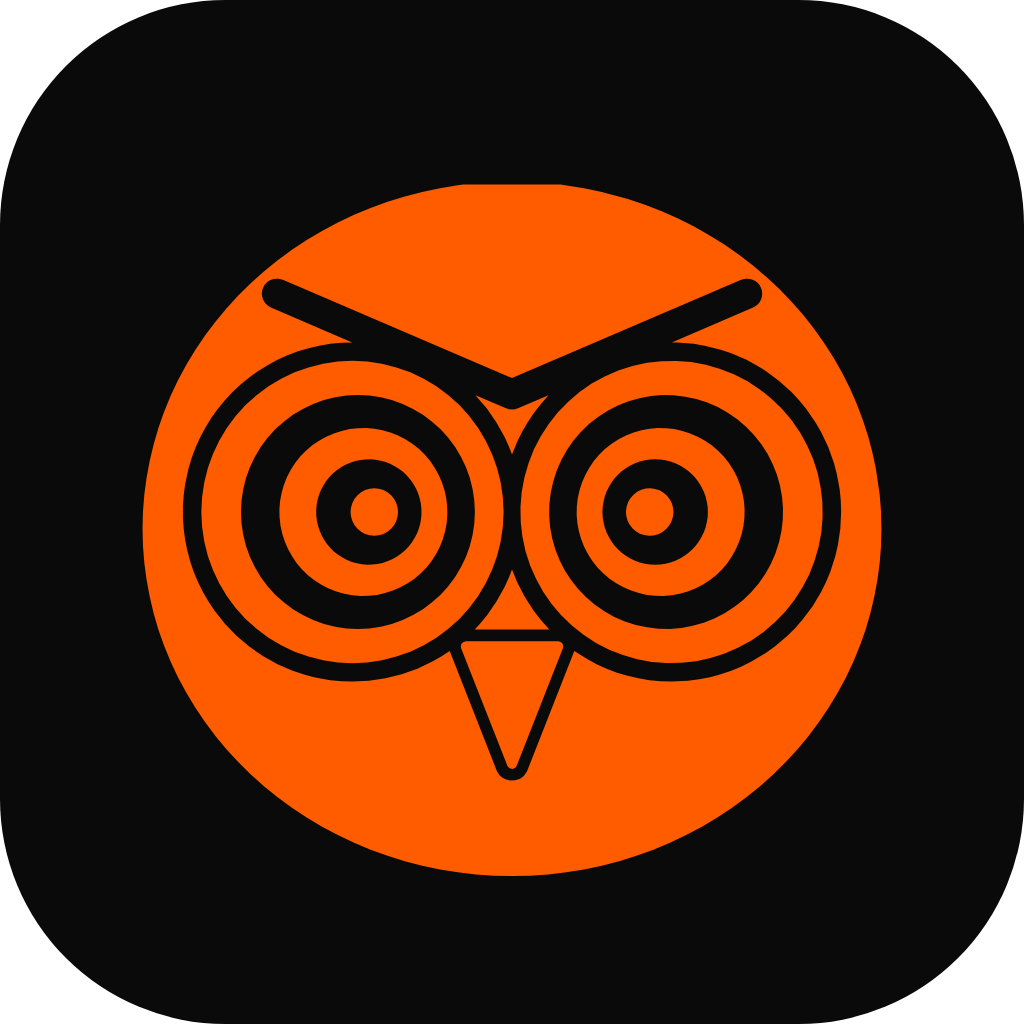
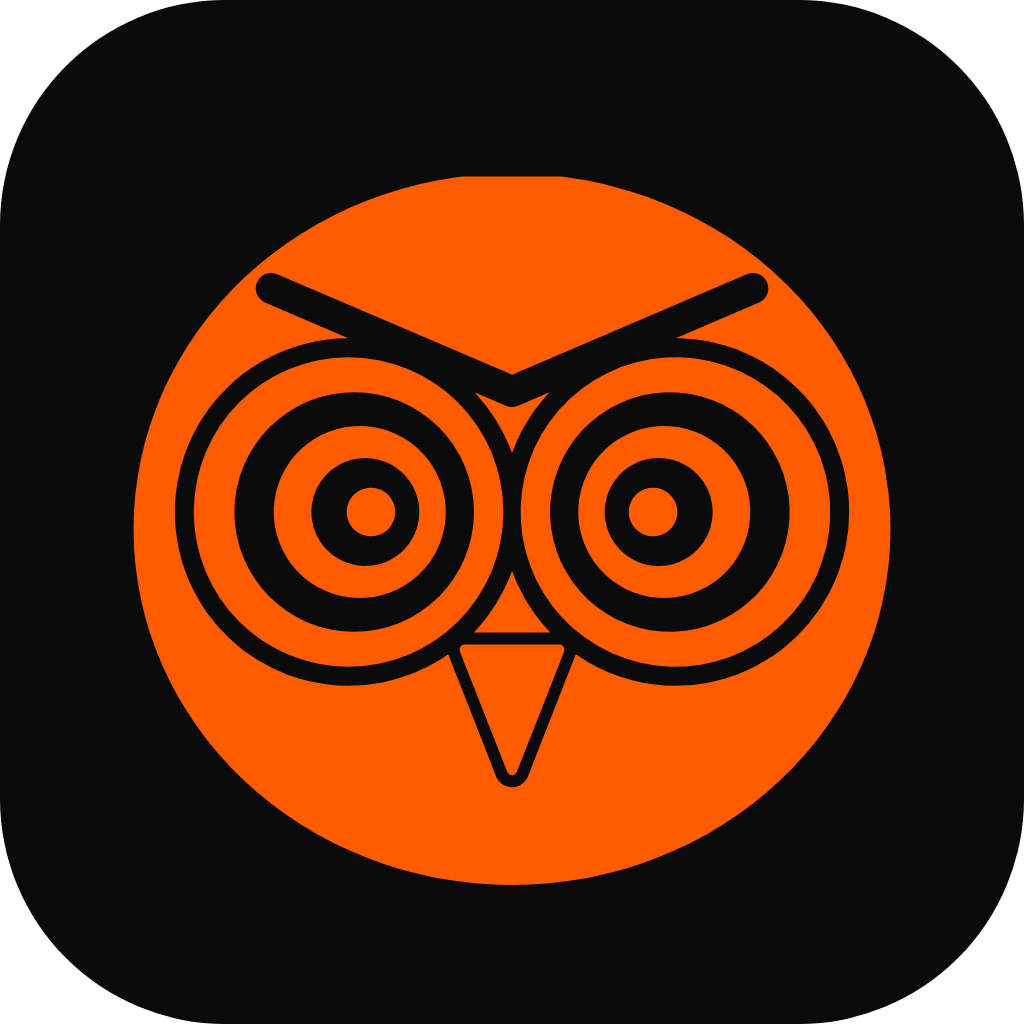
refactor(brand): the owl comes from @bitbaum/design-tokens/marks
Solon's mark now lives where the fleet's marks live (design-tokens 1.6.1,
`marks/solon.mjs`), the same data OrangeCat's tiles draw. mark.ts reads it
from the package, the icons and exports are written from it with the
package's own helpers (so Solon's icon has the fleet's proportions), and
brand/solon-mark.svg is gone. The test fails if an icon drifts from the
package or a drawing of its own reappears.

Claude-Session: https://claude.ai/code/session_019MDtmsX15QgjkDp9MQaQ92

diff --git a/src/lib/brand/mark.ts b/src/lib/brand/mark.ts
@@ -1,11 +1,23 @@
 /**
- * GENERATED from brand/solon-mark.svg by `pnpm run brand`. Do not edit:
- * change the drawing and run the script.
+ * Solon's mark — the owl — from @bitbaum/design-tokens/marks (installed here
+ * as @fleet/design-tokens), the one place the fleet's marks live. OrangeCat's
+ * tiles and Solon's own header, share card and icons draw the same data, so
+ * the owl is replaced once, in that package (`marks:import solon <file.svg>`),
+ * and a release carries it everywhere. See brand/README.md.
  */
+import { markFor } from "@fleet/design-tokens/marks";
 
+const mark = markFor("solon");
+if (!mark || mark.shapes.length !== 1 || mark.shapes[0]!.paint !== "fill") {
+  throw new Error("@fleet/design-tokens/marks: Solon's mark must be one filled shape");
+}
+const [shape] = mark.shapes;
+
+/** The whole mark as data: `mark` for the package's helpers, the path for React and satori. */
 export const SOLON_MARK = {
-  name: "Solon",
-  viewBox: [0, 0, 100, 100] as const,
-  fillRule: "evenodd" as "evenodd" | "nonzero",
-  d: "M93.35 44.93 L92.93 42.94 L92.41 40.97 L91.78 39.03 L91.05 37.11 L90.23 35.24 L89.30 33.40 L88.28 31.61 L87.17 29.87 L85.97 28.18 L84.69 26.55 L83.32 24.98 L81.87 23.48 L80.34 22.05 L78.74 20.68 L77.07 19.39 L75.34 18.18 L73.54 17.06 L71.69 16.01 L69.78 15.06 L67.83 14.19 L65.84 13.41 L63.80 12.73 L60.69 11.88 L58.58 11.43 L55.77 11.00 L44.23 11.00 L43.54 11.09 L41.42 11.43 L39.31 11.88 L37.23 12.42 L35.18 13.06 L33.16 13.79 L31.19 14.61 L29.26 15.52 L27.38 16.52 L25.55 17.61 L23.79 18.78 L22.09 20.03 L20.45 21.35 L18.89 22.75 L17.40 24.22 L15.99 25.76 L14.66 27.36 L13.42 29.02 L12.26 30.74 L11.20 32.50 L10.22 34.32 L9.35 36.17 L8.57 38.07 L7.89 39.99 L7.32 41.95 L6.85 43.93 L6.48 45.93 L6.21 47.95 L6.05 49.97 L6.00 52.00 L6.05 54.03 L6.21 56.05 L6.48 58.07 L6.85 60.07 L7.32 62.05 L7.89 64.01 L8.57 65.93 L9.35 67.83 L10.22 69.68 L11.20 71.50 L12.26 73.26 L13.42 74.98 L14.66 76.64 L15.99 78.24 L17.40 79.78 L18.89 81.25 L20.45 82.65 L22.09 83.97 L23.79 85.22 L25.55 86.39 L27.38 87.48 L29.26 88.48 L31.19 89.39 L33.16 90.21 L35.18 90.94 L37.23 91.58 L39.31 92.12 L41.42 92.57 L43.54 92.91 L45.69 93.16 L47.84 93.31 L50.00 93.36 L52.16 93.31 L54.31 93.16 L56.46 92.91 L58.58 92.57 L60.69 92.12 L62.77 91.58 L64.82 90.94 L66.84 90.21 L68.81 89.39 L70.74 88.48 L72.62 87.48 L74.45 86.39 L76.21 85.22 L77.91 83.97 L79.55 82.65 L81.11 81.25 L82.60 79.78 L84.01 78.24 L85.34 76.64 L86.58 74.98 L87.74 73.26 L88.80 71.50 L89.78 69.68 L90.65 67.83 L91.43 65.93 L92.11 64.01 L92.68 62.05 L93.15 60.07 L93.52 58.07 L93.79 56.05 L93.95 54.03 L94.00 52.00 L93.95 49.97 L93.79 47.95ZM69.66 29.81 L71.64 29.97 L72.94 30.19 L74.86 30.67 L76.12 31.09 L77.93 31.88 L79.10 32.51 L80.22 33.20 L81.81 34.39 L83.28 35.72 L84.19 36.68 L85.03 37.70 L86.15 39.33 L86.81 40.48 L87.66 42.27 L88.33 44.14 L88.67 45.41 L89.03 47.36 L89.16 48.68 L89.20 50.00 L89.10 51.98 L88.81 53.94 L88.51 55.23 L87.91 57.12 L87.40 58.34 L86.81 59.52 L85.80 61.22 L84.61 62.81 L83.74 63.81 L82.81 64.74 L81.30 66.03 L80.22 66.80 L78.52 67.81 L77.34 68.40 L76.12 68.91 L74.86 69.33 L73.59 69.67 L72.29 69.93 L70.98 70.10 L69.00 70.20 L67.68 70.16 L66.36 70.03 L65.06 69.81 L63.77 69.51 L62.51 69.13 L61.27 68.66 L60.07 68.12 L58.90 67.49 L57.42 66.55 L51.78 80.91 L51.43 81.40 L50.96 81.76 L50.40 81.96 L49.80 81.99 L49.22 81.84 L48.87 81.65 L48.57 81.40 L48.22 80.91 L42.58 66.55 L41.67 67.15 L40.52 67.81 L38.73 68.66 L36.86 69.33 L34.94 69.81 L32.98 70.10 L31.00 70.20 L29.68 70.16 L28.36 70.03 L26.41 69.67 L25.14 69.33 L23.88 68.91 L22.07 68.12 L20.33 67.15 L18.70 66.03 L17.19 64.74 L15.81 63.32 L14.58 61.77 L13.85 60.67 L13.19 59.52 L12.60 58.34 L12.09 57.12 L11.67 55.86 L11.33 54.59 L11.07 53.29 L10.90 51.98 L10.81 50.66 L10.81 49.34 L10.90 48.02 L11.07 46.71 L11.49 44.77 L11.87 43.51 L12.34 42.27 L12.88 41.07 L13.51 39.90 L14.20 38.78 L14.97 37.70 L15.81 36.68 L16.72 35.72 L17.68 34.81 L18.70 33.97 L19.78 33.20 L20.90 32.51 L22.07 31.88 L23.27 31.34 L24.51 30.87 L25.77 30.49 L27.06 30.19 L28.36 29.97 L29.68 29.84 L30.97 29.80 L21.29 25.65 L20.98 25.48 L20.59 25.12 L20.33 24.67 L20.21 24.15 L20.21 23.80 L20.28 23.46 L20.52 22.98 L20.88 22.59 L21.17 22.40 L21.50 22.27 L21.85 22.21 L22.20 22.21 L22.71 22.35 L50.00 34.04 L77.29 22.35 L77.80 22.21 L78.15 22.21 L78.50 22.27 L78.98 22.49 L79.26 22.71 L79.48 22.98 L79.65 23.29 L79.76 23.63 L79.80 23.98 L79.77 24.33 L79.67 24.67 L79.51 24.98 L79.29 25.26 L79.02 25.48 L78.71 25.65 L69.03 29.80ZM51.19 40.48 L51.85 39.33 L52.58 38.23 L53.39 37.19 L54.35 36.09 L50.71 37.65 L50.36 37.76 L50.00 37.80 L49.64 37.76 L49.29 37.65 L45.65 36.09 L47.03 37.70 L48.15 39.33 L49.12 41.07 L49.66 42.27 L50.00 43.15 L50.60 41.66ZM53.39 62.81 L52.58 61.77 L51.51 60.10 L50.60 58.34 L50.00 56.85 L49.66 57.73 L49.12 58.93 L48.15 60.67 L47.03 62.30 L46.19 63.32 L45.56 64.00 L54.44 64.00ZM48.22 44.77 L47.63 43.11 L46.87 41.51 L45.97 40.00 L44.91 38.58 L43.73 37.27 L42.42 36.09 L41.00 35.03 L39.49 34.13 L37.89 33.37 L36.23 32.78 L34.51 32.35 L32.76 32.09 L31.00 32.00 L29.24 32.09 L27.49 32.35 L25.77 32.78 L24.11 33.37 L22.51 34.13 L21.00 35.03 L19.58 36.09 L18.27 37.27 L17.09 38.58 L16.03 40.00 L15.13 41.51 L14.37 43.11 L13.78 44.77 L13.35 46.49 L13.09 48.24 L13.00 50.00 L13.09 51.76 L13.35 53.51 L13.78 55.23 L14.37 56.89 L15.13 58.49 L16.03 60.00 L17.09 61.42 L18.27 62.73 L19.58 63.91 L21.00 64.97 L22.51 65.87 L24.11 66.63 L25.77 67.22 L27.49 67.65 L29.24 67.91 L31.00 68.00 L32.76 67.91 L34.51 67.65 L36.23 67.22 L37.89 66.63 L39.49 65.87 L41.00 64.97 L42.42 63.91 L43.73 62.73 L44.91 61.42 L45.97 60.00 L46.87 58.49 L47.63 56.89 L48.22 55.23 L48.65 53.51 L48.91 51.76 L49.00 50.00 L48.91 48.24 L48.65 46.49ZM44.98 54.04 L44.52 55.33 L43.93 56.56 L43.23 57.74 L42.41 58.83 L41.50 59.85 L40.48 60.76 L39.39 61.58 L38.21 62.28 L36.98 62.87 L35.69 63.33 L34.37 63.66 L33.01 63.86 L31.65 63.93 L30.29 63.86 L28.93 63.66 L27.61 63.33 L26.32 62.87 L25.09 62.28 L23.91 61.58 L22.82 60.76 L21.80 59.85 L20.89 58.83 L20.07 57.74 L19.37 56.56 L18.78 55.33 L18.32 54.04 L17.99 52.72 L17.79 51.36 L17.72 50.00 L17.79 48.64 L17.99 47.28 L18.32 45.96 L18.78 44.67 L19.37 43.44 L20.07 42.26 L20.89 41.17 L21.80 40.15 L22.82 39.24 L23.91 38.42 L25.09 37.72 L26.32 37.13 L27.61 36.67 L28.93 36.34 L30.29 36.14 L31.65 36.07 L33.01 36.14 L34.37 36.34 L35.69 36.67 L36.98 37.13 L38.21 37.72 L39.39 38.42 L40.48 39.24 L41.50 40.15 L42.41 41.17 L43.23 42.26 L43.93 43.44 L44.52 44.67 L44.98 45.96 L45.31 47.28 L45.51 48.64 L45.58 50.00 L45.51 51.36 L45.31 52.72ZM41.96 47.41 L41.66 46.48 L41.27 45.58 L40.79 44.72 L40.24 43.91 L39.60 43.16 L38.90 42.48 L38.13 41.87 L37.30 41.34 L36.43 40.89 L35.52 40.53 L34.57 40.26 L33.61 40.08 L32.63 40.00 L31.65 40.02 L30.67 40.13 L29.71 40.34 L28.78 40.64 L27.88 41.03 L27.02 41.51 L26.21 42.06 L25.46 42.70 L24.78 43.40 L24.17 44.17 L23.64 45.00 L23.19 45.87 L22.83 46.78 L22.56 47.73 L22.38 48.69 L22.30 49.67 L22.32 50.65 L22.43 51.63 L22.64 52.59 L22.94 53.52 L23.33 54.42 L23.81 55.28 L24.36 56.09 L25.00 56.84 L25.70 57.52 L26.47 58.13 L27.30 58.66 L28.17 59.11 L29.08 59.47 L30.03 59.74 L30.99 59.92 L31.97 60.00 L32.95 59.98 L33.93 59.87 L34.89 59.66 L35.82 59.36 L36.72 58.97 L37.58 58.49 L38.39 57.94 L39.14 57.30 L39.82 56.60 L40.43 55.83 L40.96 55.00 L41.41 54.13 L41.77 53.22 L42.04 52.27 L42.22 51.31 L42.30 50.33 L42.28 49.35 L42.17 48.37ZM39.06 51.42 L38.89 52.02 L38.67 52.59 L38.38 53.14 L38.05 53.66 L37.67 54.14 L37.24 54.58 L36.77 54.98 L36.26 55.33 L35.73 55.63 L35.16 55.87 L34.57 56.06 L33.97 56.19 L33.36 56.26 L32.74 56.27 L32.13 56.22 L31.53 56.11 L30.93 55.94 L30.36 55.72 L29.81 55.43 L29.29 55.10 L28.81 54.72 L28.37 54.29 L27.97 53.82 L27.62 53.31 L27.32 52.78 L27.08 52.21 L26.89 51.62 L26.76 51.02 L26.69 50.41 L26.68 49.79 L26.73 49.18 L26.84 48.58 L27.01 47.98 L27.23 47.41 L27.52 46.86 L27.85 46.34 L28.23 45.86 L28.66 45.42 L29.13 45.02 L29.64 44.67 L30.17 44.37 L30.74 44.13 L31.33 43.94 L31.93 43.81 L32.54 43.74 L33.16 43.73 L33.77 43.78 L34.37 43.89 L34.97 44.06 L35.54 44.28 L36.09 44.57 L36.61 44.90 L37.09 45.28 L37.53 45.71 L37.93 46.18 L38.28 46.69 L38.58 47.22 L38.82 47.79 L39.01 48.38 L39.14 48.98 L39.21 49.59 L39.22 50.21 L39.17 50.82ZM36.37 49.45 L36.21 48.92 L35.95 48.43 L35.60 48.00 L35.17 47.65 L34.68 47.39 L34.15 47.23 L33.60 47.17 L33.05 47.23 L32.52 47.39 L32.03 47.65 L31.60 48.00 L31.25 48.43 L30.99 48.92 L30.83 49.45 L30.77 50.00 L30.83 50.55 L30.99 51.08 L31.25 51.57 L31.60 52.00 L32.03 52.35 L32.52 52.61 L33.05 52.77 L33.60 52.83 L34.15 52.77 L34.68 52.61 L35.17 52.35 L35.60 52.00 L35.95 51.57 L36.21 51.08 L36.37 50.55 L36.43 50.00ZM86.39 45.34 L85.85 43.66 L85.14 42.04 L84.29 40.49 L83.28 39.04 L82.14 37.70 L80.87 36.47 L79.48 35.37 L78.00 34.41 L76.43 33.60 L74.79 32.96 L73.09 32.47 L71.35 32.15 L69.59 32.01 L67.82 32.04 L66.07 32.24 L64.34 32.61 L62.66 33.15 L61.04 33.86 L59.49 34.71 L58.04 35.72 L56.70 36.86 L55.47 38.13 L54.37 39.52 L53.41 41.00 L52.60 42.57 L51.96 44.21 L51.47 45.91 L51.15 47.65 L51.01 49.41 L51.04 51.18 L51.24 52.93 L51.61 54.66 L52.15 56.34 L52.86 57.96 L53.71 59.51 L54.72 60.96 L55.86 62.30 L57.13 63.53 L58.52 64.63 L60.00 65.59 L61.57 66.40 L63.21 67.04 L64.91 67.53 L66.65 67.85 L68.41 67.99 L70.18 67.96 L71.93 67.76 L73.66 67.39 L75.34 66.85 L76.96 66.14 L78.51 65.29 L79.96 64.28 L81.30 63.14 L82.53 61.87 L83.63 60.48 L84.59 59.00 L85.40 57.43 L86.04 55.79 L86.53 54.09 L86.85 52.35 L86.99 50.59 L86.96 48.82 L86.76 47.07ZM81.80 53.60 L81.38 54.91 L80.84 56.16 L80.18 57.35 L79.40 58.48 L78.51 59.52 L77.53 60.47 L76.46 61.32 L75.31 62.06 L74.10 62.68 L72.83 63.19 L71.51 63.56 L70.17 63.81 L68.81 63.92 L67.44 63.90 L66.08 63.74 L64.75 63.45 L63.44 63.03 L62.19 62.49 L61.00 61.83 L59.87 61.05 L58.83 60.16 L57.88 59.18 L57.03 58.11 L56.29 56.96 L55.67 55.75 L55.16 54.48 L54.79 53.16 L54.54 51.82 L54.43 50.46 L54.45 49.09 L54.61 47.73 L54.90 46.40 L55.32 45.09 L55.86 43.84 L56.52 42.65 L57.30 41.52 L58.19 40.48 L59.17 39.53 L60.24 38.68 L61.39 37.94 L62.60 37.32 L63.87 36.81 L65.19 36.44 L66.53 36.19 L67.89 36.08 L69.26 36.10 L70.62 36.26 L71.95 36.55 L73.26 36.97 L74.51 37.51 L75.70 38.17 L76.83 38.95 L77.87 39.84 L78.82 40.82 L79.67 41.89 L80.41 43.04 L81.03 44.25 L81.54 45.52 L81.91 46.84 L82.16 48.18 L82.27 49.54 L82.25 50.91 L82.09 52.27ZM77.44 47.73 L77.17 46.78 L76.81 45.87 L76.36 45.00 L75.83 44.17 L75.22 43.40 L74.54 42.70 L73.79 42.06 L72.98 41.51 L72.12 41.03 L71.22 40.64 L70.29 40.34 L69.33 40.13 L68.35 40.02 L67.37 40.00 L66.39 40.08 L65.43 40.26 L64.48 40.53 L63.57 40.89 L62.70 41.34 L61.87 41.87 L61.10 42.48 L60.40 43.16 L59.76 43.91 L59.21 44.72 L58.73 45.58 L58.34 46.48 L58.04 47.41 L57.83 48.37 L57.72 49.35 L57.70 50.33 L57.78 51.31 L57.96 52.27 L58.23 53.22 L58.59 54.13 L59.04 55.00 L59.57 55.83 L60.18 56.60 L60.86 57.30 L61.61 57.94 L62.42 58.49 L63.28 58.97 L64.18 59.36 L65.11 59.66 L66.07 59.87 L67.05 59.98 L68.03 60.00 L69.01 59.92 L69.97 59.74 L70.92 59.47 L71.83 59.11 L72.70 58.66 L73.53 58.13 L74.30 57.52 L75.00 56.84 L75.64 56.09 L76.19 55.28 L76.67 54.42 L77.06 53.52 L77.36 52.59 L77.57 51.63 L77.68 50.65 L77.70 49.67 L77.62 48.69ZM73.20 51.22 L73.06 51.82 L72.85 52.40 L72.58 52.96 L72.27 53.49 L71.90 53.98 L71.49 54.44 L71.03 54.85 L70.54 55.22 L70.01 55.53 L69.45 55.80 L68.87 56.01 L68.27 56.15 L67.67 56.25 L67.05 56.28 L66.43 56.25 L65.83 56.15 L65.23 56.01 L64.65 55.80 L64.09 55.53 L63.56 55.22 L63.07 54.85 L62.61 54.44 L62.20 53.98 L61.83 53.49 L61.52 52.96 L61.25 52.40 L61.04 51.82 L60.90 51.22 L60.80 50.62 L60.77 50.00 L60.80 49.38 L60.90 48.78 L61.04 48.18 L61.25 47.60 L61.52 47.04 L61.83 46.51 L62.20 46.02 L62.61 45.56 L63.07 45.15 L63.56 44.78 L64.09 44.47 L64.65 44.20 L65.23 43.99 L65.83 43.85 L66.43 43.75 L67.05 43.72 L67.67 43.75 L68.27 43.85 L68.87 43.99 L69.45 44.20 L70.01 44.47 L70.54 44.78 L71.03 45.15 L71.49 45.56 L71.90 46.02 L72.27 46.51 L72.58 47.04 L72.85 47.60 L73.06 48.18 L73.20 48.78 L73.30 49.38 L73.33 50.00 L73.30 50.62ZM69.19 49.54 L69.05 49.00 L68.80 48.51 L68.46 48.07 L68.05 47.70 L67.57 47.42 L67.04 47.25 L66.49 47.17 L65.94 47.21 L65.40 47.35 L64.91 47.60 L64.47 47.94 L64.10 48.35 L63.82 48.83 L63.65 49.36 L63.57 49.91 L63.61 50.46 L63.75 51.00 L64.00 51.49 L64.34 51.93 L64.75 52.30 L65.23 52.58 L65.76 52.75 L66.31 52.83 L66.86 52.79 L67.40 52.65 L67.89 52.40 L68.33 52.06 L68.70 51.65 L68.98 51.17 L69.15 50.64 L69.23 50.09ZM49.47 80.27 L49.71 80.53 L50.06 80.60 L50.39 80.46 L50.56 80.22 L56.06 66.22 L56.10 65.99 L56.05 65.76 L55.92 65.57 L55.73 65.44 L55.50 65.40 L44.50 65.40 L44.17 65.50 L43.95 65.76 L43.90 65.99 L43.94 66.22Z",
+  mark,
+  name: mark.name,
+  viewBox: mark.viewBox,
+  fillRule: (shape!.fillRule ?? "nonzero") as "evenodd" | "nonzero",
+  d: shape!.d,
 };

diff --git a/src/lib/brand/svg.ts b/src/lib/brand/svg.ts
@@ -1,61 +1,20 @@
 /**
- * The mark as standalone `<svg>` markup, for everything that cannot render
- * React: the static icons the generator writes, the share card, the test
- * that holds those files to the drawing. React surfaces render <Logo>, which
- * draws the same path.
+ * The owl as standalone `<svg>` markup, for everything that cannot render
+ * React: the static icons `pnpm run brand` writes, and the test that holds
+ * those files to the mark. Drawn by the package's own helpers, so Solon's
+ * icons have the same proportions as OrangeCat's and Loki's.
  */
-
+import { ICON_STYLE, iconSvg as tile, markSvg as draw } from "@fleet/design-tokens/marks";
 import { SOLON_MARK } from "./mark";
 
-/**
- * How Solon's icons look: the mark in the public accent on the near-black
- * tile every fleet app icon sits on. These are literals because favicons and
- * PNGs cannot read CSS; they mirror `--public-accent` and `--surface-public`
- * in @fleet/design-tokens.
- */
-export const ICON_STYLE = {
-  ink: "#ff5c00",
-  canvas: "#0a0a0a",
-  /** Corner radius as a share of the tile's side. */
-  radius: 0.22,
-  /** How much of the tile the mark fills. */
-  inset: 0.82,
-  /** Maskable icons keep the mark inside the centre safe zone. */
-  maskableInset: 0.64,
-} as const;
+export { ICON_STYLE };
 
-export interface MarkSvgOptions {
-  size?: number;
-  color?: string;
-  /** A square tile of this colour behind the mark. */
-  background?: string;
-  radius?: number;
-  inset?: number;
-}
+/** The colour Solon's icon wears: the public accent (`--public-accent`), stored with the mark. */
+export const ICON_INK = SOLON_MARK.mark.iconInk ?? ICON_STYLE.ink;
 
-const n = (v: number) => String(Number(v.toFixed(3)));
+/** The mark alone, in one colour, as an SVG file. */
+export const markSvg = (options: { color?: string } = {}): string =>
+  `${draw(SOLON_MARK.mark, options)}\n`;
 
-export function markSvg(options: MarkSvgOptions = {}): string {
-  const { size, color = "currentColor", background, radius = 0, inset = 1 } = options;
-  const [, , w] = SOLON_MARK.viewBox;
-  const dims = size === undefined ? "" : ` width="${size}" height="${size}"`;
-  const tile = background
-    ? `<rect width="${w}" height="${w}" rx="${n(w * radius)}" fill="${background}"/>`
-    : "";
-  const path = `<path fill="${color}" fill-rule="${SOLON_MARK.fillRule}" d="${SOLON_MARK.d}"/>`;
-  const body =
-    inset === 1
-      ? path
-      : `<g transform="translate(${n(w / 2)} ${n(w / 2)}) scale(${n(inset)}) translate(${n(-w / 2)} ${n(-w / 2)})">${path}</g>`;
-  return `<svg xmlns="http://www.w3.org/2000/svg" viewBox="${SOLON_MARK.viewBox.join(" ")}"${dims}>${tile}${body}</svg>\n`;
-}
-
-/** The app icon: the mark on its tile. */
-export function iconSvg(maskable = false): string {
-  return markSvg({
-    color: ICON_STYLE.ink,
-    background: ICON_STYLE.canvas,
-    radius: maskable ? 0 : ICON_STYLE.radius,
-    inset: maskable ? ICON_STYLE.maskableInset : ICON_STYLE.inset,
-  });
-}
+/** The app icon: the mark on its tile (maskable: full bleed, inside the safe zone). */
+export const iconSvg = (maskable = false): string => `${tile(SOLON_MARK.mark, { maskable })}\n`;

diff --git a/src/lib/brand/__tests__/brand.test.ts b/src/lib/brand/__tests__/brand.test.ts
@@ -1,6 +1,7 @@
-import { readFileSync } from "node:fs";
+import { readFileSync, readdirSync } from "node:fs";
 import { join } from "node:path";
 import { describe, expect, it } from "vitest";
+import { markFor } from "@fleet/design-tokens/marks";
 
 import { SOLON_MARK } from "../mark";
 import { iconSvg } from "../svg";
@@ -9,20 +10,24 @@ const root = join(__dirname, "../../../..");
 const read = (p: string) => readFileSync(join(root, p), "utf8");
 
 /**
- * The drawing is the source; everything else is written from it by
- * `pnpm run brand`. These fail when someone edits a copy instead of the
- * drawing, or changes the drawing without running the script.
+ * The owl lives in @bitbaum/design-tokens/marks; everything here is drawn
+ * from it by `pnpm run brand`. These fail when someone edits a copy instead
+ * of the package, or raises the package without running the script.
  */
 describe("Solon's mark has one source", () => {
-  it("the generated data is the drawing's path", () => {
-    const drawing = read("brand/solon-mark.svg");
-    expect(drawing).toContain(`d="${SOLON_MARK.d}"`);
-    expect(drawing).toContain(`viewBox="${SOLON_MARK.viewBox.join(" ")}"`);
+  it("is the package's mark for solon", () => {
+    expect(SOLON_MARK.mark).toBe(markFor("solon"));
+    expect(SOLON_MARK.d).toBe(markFor("solon")!.shapes[0]!.d);
   });
 
   it("the favicon and the app icon are the mark on its tile", () => {
     expect(read("src/app/icon.svg")).toBe(iconSvg());
     expect(read("public/app-icons/icon.svg")).toBe(iconSvg());
+    expect(read("brand/export/solon-icon.svg")).toBe(iconSvg());
+  });
+
+  it("keeps no drawing of its own", () => {
+    expect(readdirSync(join(root, "brand")).filter((f) => f.endsWith(".svg"))).toEqual([]);
   });
 
   it("nothing else draws a mark of its own", () => {

diff --git a/brand/README.md b/brand/README.md
@@ -1,25 +1,33 @@
 # Solon's mark
 
-**The mark is one file: [`solon-mark.svg`](solon-mark.svg).** Everything else
-that shows it is written from it:
+**The owl lives in `@bitbaum/design-tokens/marks`** (repository
+`bitbaum/design-tokens`, file `marks/solon.mjs`), the one place the fleet's
+marks live; Solon installs the package as `@fleet/design-tokens`. Solon's
+header, footer and share card draw it from there (`src/lib/brand/mark.ts`), and
+so do OrangeCat's studio tiles and Solon's project page there. Everything else
+here is written from it:
 
 ```bash
-pnpm run brand            # src/lib/brand/mark.ts, src/app/icon.svg, public/app-icons/icon.svg, export/*.svg
-pnpm run brand -- --png   # also the PNG icons, favicon.ico and 1024px exports (Chromium;
-                          # set CHROMIUM_PATH if Playwright's pinned build is missing)
+pnpm run brand            # src/app/icon.svg, public/app-icons/icon.svg, export/*.svg
+pnpm run brand -- --png   # also the PNG icons, favicon.ico, apple-icon.png and 1024px exports
+                          # (Chromium; set CHROMIUM_PATH if Playwright's pinned build is missing)
 ```
 
-`src/lib/brand/__tests__/brand.test.ts` fails when a copy no longer matches the
-drawing, so a logo cannot be changed in one place and forgotten in another.
+`src/lib/brand/__tests__/brand.test.ts` fails when an icon no longer matches
+the package's mark, or when a drawing of its own appears here.
 
 ## Replacing it
 
-Export the new logo from any editor as plain SVG, a single compound path in one
-colour (holes cut with `fill-rule="evenodd"`), no transforms, no text. Save it
-over `solon-mark.svg`, run both commands, commit what they wrote. The header,
-footer, share card, favicon, app icons and the exports follow. For OrangeCat's
-copy (its studio tiles and Solon's project page there), run
-its `brand:import` script with the slug `solon` and this file (bitbaum/orangecat).
+1. Export the new logo as plain SVG: one colour, holes cut with
+   `fill-rule="evenodd"`, no transforms, no text.
+2. In bitbaum/design-tokens, run its `marks:import` script with the slug `solon`
+   and that file, open a pull request, and once it is merged run its Release
+   workflow.
+3. Here, raise `@fleet/design-tokens` to that release and run both commands
+   above. Commit what they wrote.
+
+The header, footer, share card, favicon, app icons and exports follow, and so
+does every other product that shows Solon.
 
 ## What it is
 
@@ -43,7 +51,7 @@ both sides: the law as written and what happened, one place against another.
 [`concepts.png`](concepts.png) shows the owl beside the marks it was chosen over,
 each at 128, 48, 24 and 16 px, in a header and as an app icon next to OrangeCat
 and Loki. Their drawings are in [`concepts/`](concepts/); any of them becomes the
-mark by copying it over `solon-mark.svg` and running `pnpm run brand`.
+mark by importing it into the package as above.
 
 - **Ring**: the Landsgemeinde from above, open toward you. Set aside because
   concentric arcs around a figure are the Apple Podcasts and AirDrop icons.
@@ -53,15 +61,3 @@ mark by copying it over `solon-mark.svg` and running `pnpm run brand`.
 - **Volute**: the Ionic capital. Reads as a bank or a courthouse.
 - **Double coil / One path in**: an S of two volutes; a coil you walk into.
   Too close to Loki's disc to tell apart at icon size.
-
-## Why there is still a copy in OrangeCat
-
-OrangeCat keeps every studio product's mark in its own registry
-(`src/config/marks/`) for its tiles, banners and project share cards. Loki's
-generator is mirrored there by hand. Its Solon entry was a line-icon balance
-Solon itself had stopped using, which is the drift a copy invites. Today the
-copy is refreshed with one command. The lasting fix is to move the registry
-(the mark files, `markSvg` and the importer) into `@bitbaum/design-tokens`,
-the package that already holds the three products' shared brand. Then Solon,
-OrangeCat and Loki all read one mark, and a new mark is one release. That
-move is not done yet.
